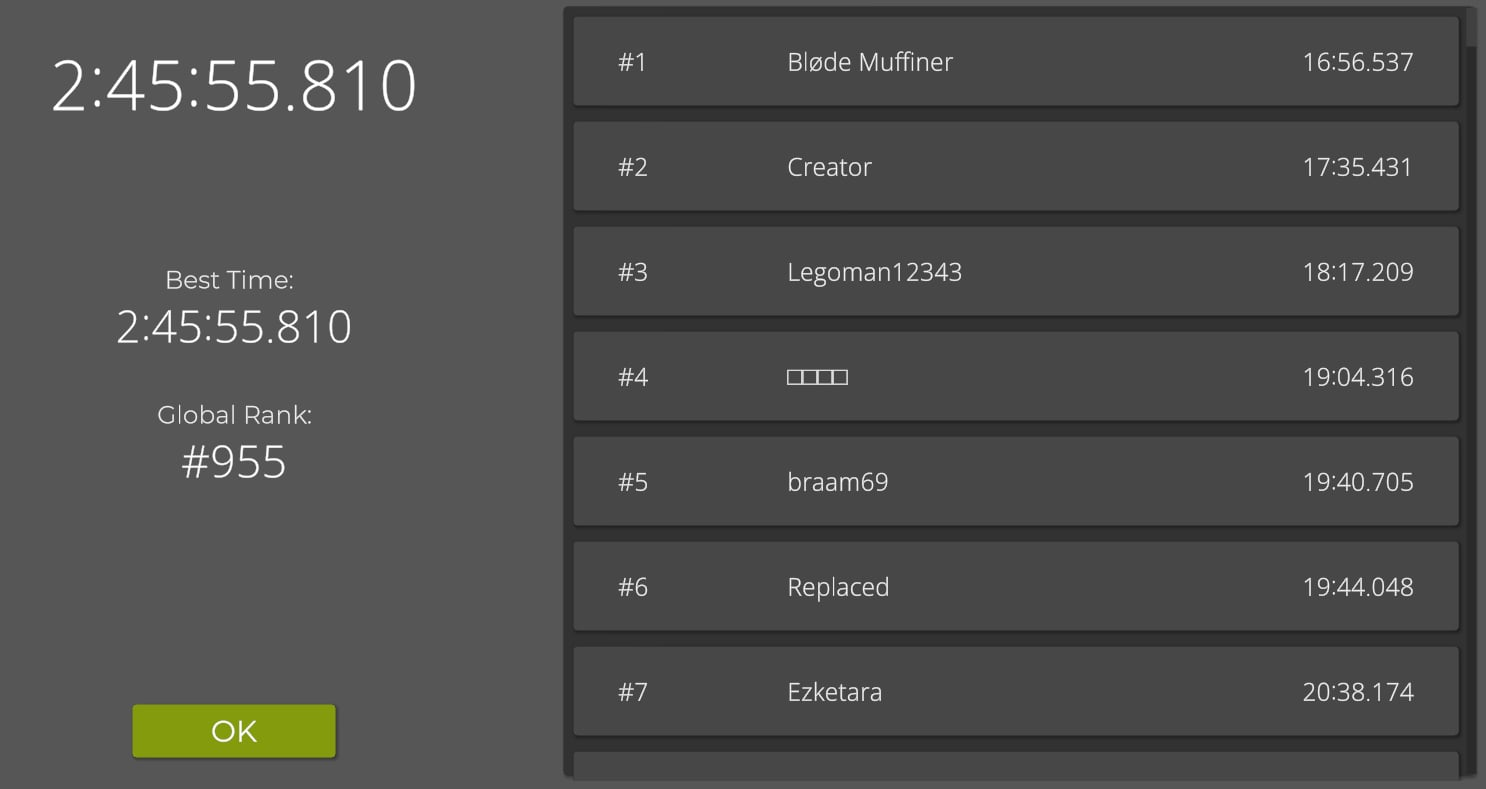
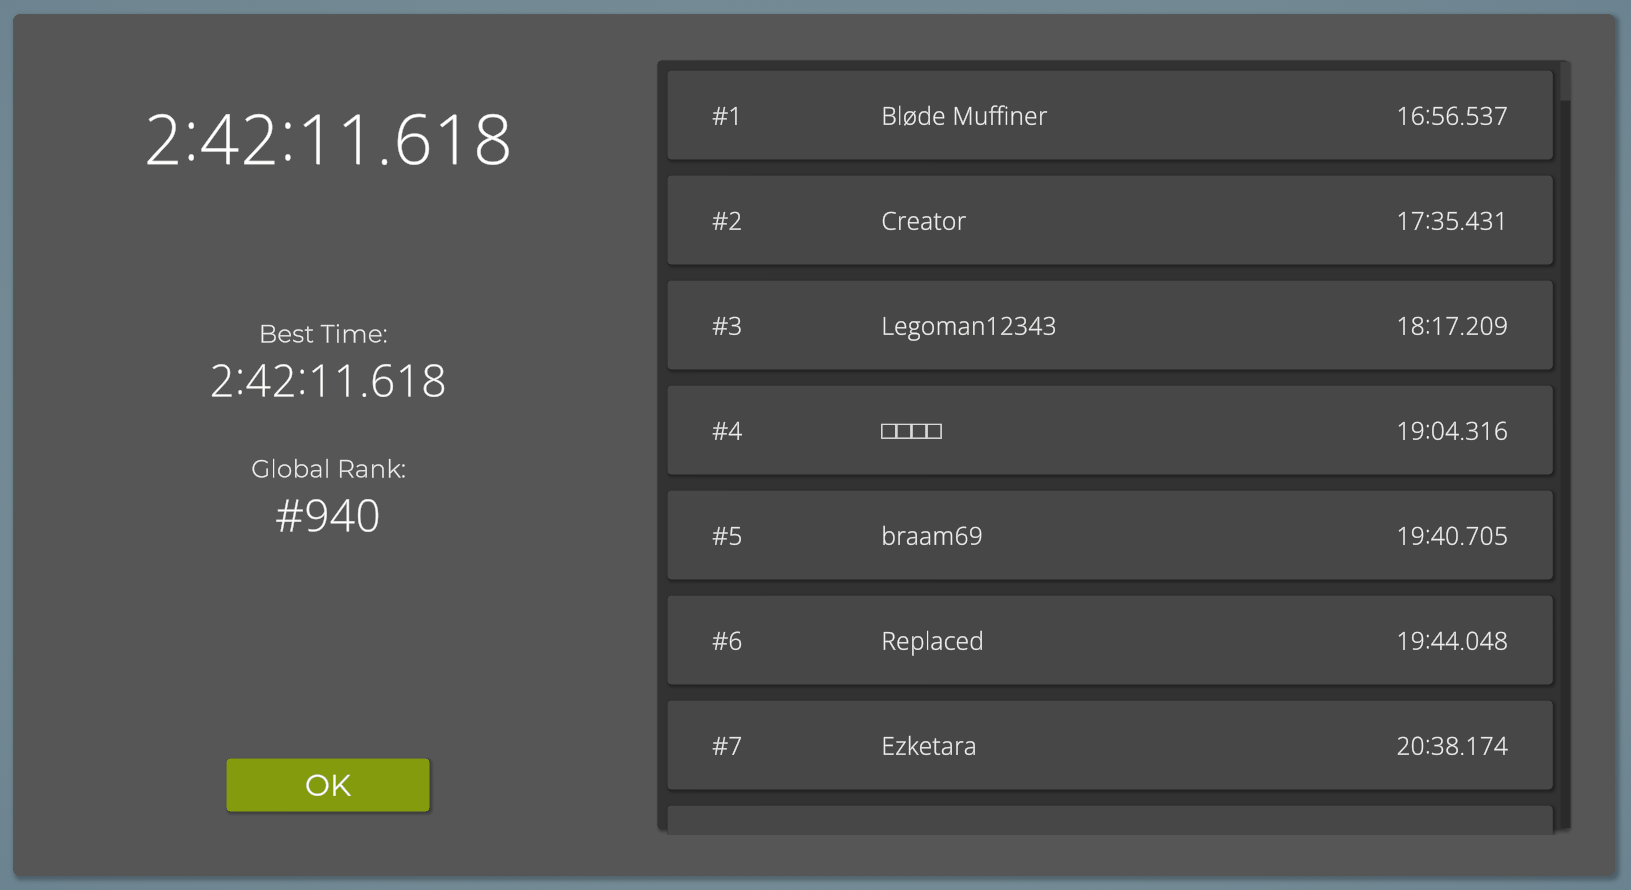
feat: avoid empty sunflower plots

diff --git a/scripts/Helpers.py b/scripts/Helpers.py
@@ -1,62 +1,10 @@
 def Do_Nothing():
 	do_a_flip()
 
-def Get_Seed_Cost(seed):
-	plot_count = get_world_size() * get_world_size()
-	cost = get_cost(seed)
-	for item in cost:
-		cost[item] = cost[item] * plot_count
-	return cost
-
-		
-def Get_Seeds(item):
-	cost = Get_Seed_Cost(item)
-	for item in cost:
-		while num_items(item) < cost[item]:
-			Grow(item)
-
-def Grow(item):
-	if (item == Items.Hay):
-		Grow_Grass()
-	elif (item == Items.Wood):
-		Grow_Wood()
-	elif (item == Items.Carrot):
-		Get_Seeds(Items.Carrot_Seed)
-		Grow_Carrots()
-	elif (item == Items.Gold):
-		Get_Seeds(Items.Fertilizer)
-		Spawn_Maze()
-	elif (item == Items.Cactus):
-		Get_Seeds(Items.Cactus_Seed)
-		Grow_Cacti()
-	elif (item == Items.Power):
-		Get_Seeds(Items.Sunflower_Seed)
-		Grow_Sunflowers()
-	elif (item == Items.Bones):
-		Get_Seeds(Items.Egg)
-		Grow_Dinosaur()
-	elif (item == Items.Pumpkin):
-		Get_Seeds(Items.Pumpkin_Seed)
-		Grow_Pumpkins()
-
 def For_Each_Tile(callback):
 	for y in range(get_world_size()):
 		for x in range(get_world_size()):
 			callback()
-			move(North)
-		move(East)
-		
-def Do_Harvest(use_fertilizer):
-	Move_To(0, 0)
-	for y in range(get_world_size()):
-		for x in range(get_world_size()):
-			while (get_entity_type() != None and not can_harvest()):
-				if (use_fertilizer):
-					trade(Items.Fertilizer)
-					use_item(Items.Fertilizer)
-				else:
-					Do_Nothing()
-			harvest()
 			move(North)
 		move(East)
 		
@@ -70,4 +18,3 @@ def Has_Empty_Tiles():
 			move(North)
 		move(East)
 	return status
-	

diff --git a/scripts/Entities.py b/scripts/Entities.py
@@ -1,0 +1,51 @@
+def Get_Seed_Cost(seed):
+	plot_count = get_world_size() * get_world_size()
+	cost = get_cost(seed)
+	for item in cost:
+		cost[item] = cost[item] * plot_count
+	return cost
+
+		
+def Get_Seeds(item):
+	cost = Get_Seed_Cost(item)
+	for item in cost:
+		while num_items(item) < cost[item]:
+			Grow(item)
+
+def Grow(item):
+	if (item == Items.Hay):
+		Grow_Grass()
+	elif (item == Items.Wood):
+		Grow_Wood()
+	elif (item == Items.Carrot):
+		Get_Seeds(Items.Carrot_Seed)
+		Grow_Carrots()
+	elif (item == Items.Gold):
+		Get_Seeds(Items.Fertilizer)
+		Spawn_Maze()
+	elif (item == Items.Cactus):
+		Get_Seeds(Items.Cactus_Seed)
+		Grow_Cacti()
+	elif (item == Items.Power):
+		Get_Seeds(Items.Sunflower_Seed)
+		Grow_Sunflowers()
+	elif (item == Items.Bones):
+		Get_Seeds(Items.Egg)
+		Grow_Dinosaur()
+	elif (item == Items.Pumpkin):
+		Get_Seeds(Items.Pumpkin_Seed)
+		Grow_Pumpkins()
+		
+def Do_Harvest(use_fertilizer):
+	Move_To(0, 0)
+	for y in range(get_world_size()):
+		for x in range(get_world_size()):
+			while (get_entity_type() != None and not can_harvest()):
+				if (use_fertilizer):
+					trade(Items.Fertilizer)
+					use_item(Items.Fertilizer)
+				else:
+					Do_Nothing()
+			harvest()
+			move(North)
+		move(East)

diff --git a/scripts/Sunflowers.py b/scripts/Sunflowers.py
@@ -14,6 +14,8 @@ def Plant_Sunflowers():
 			Trade(Items.Sunflower_Seed, 1)
 			plant(Entities.Sunflower)
 			petal_count = measure()
+            if plant_locations[petal_count] == None:
+                plant_locations[petal_count] = []
 			plant_locations[petal_count].append([get_pos_x(), get_pos_y()])
 			move(North)
 		move(East)

diff --git a/README.md b/README.md
@@ -4,6 +4,6 @@ This repository holds a collaborative solution to the Leaderboard challenge in t
 
 ## Status
 
-### 2:45:55:810
+### 2:42:11:618
 
-![alt text](image.png)
+![alt text](image-1.png)
